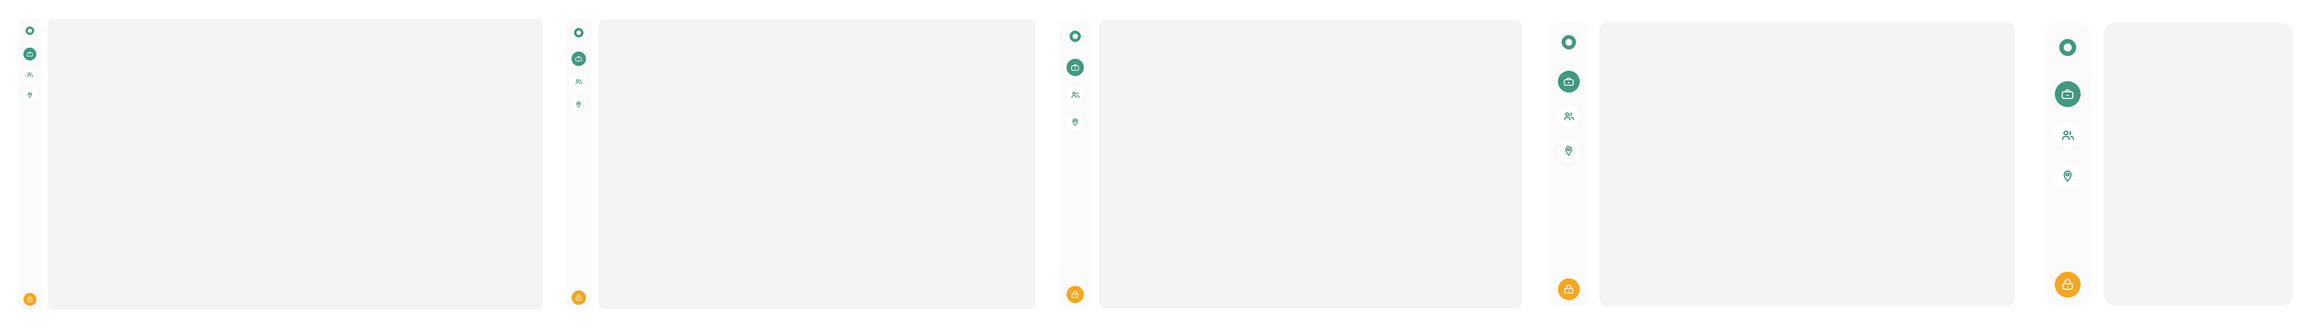
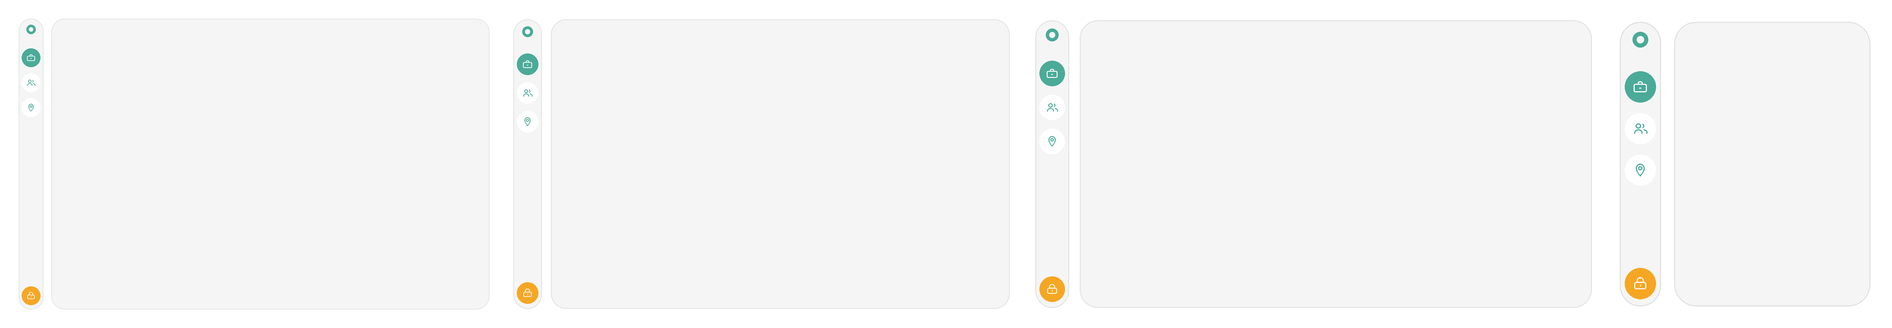
Rebuild the home screen on the design's real 1440x900 artboard
The mockup I measured was a 1546x967 export of a 1440x900 artboard - a 1.074
scale, not the 1.208 I had assumed and not 1:1 either. With my measurements
also running a few percent high and plus or minus ten percent noisy, that is
how a 56px disc got read as 46. Nothing here is measured any more; every
number is read off a property panel.

  artboard    1440x900, rail 74x873 -> a 13.5px margin, taken as 14
  rail        74 wide, radius 40, 9px either side of a 56 disc
  shadow      0 / 6 / 14 / 0, 041516 at 7.06% - a radial gradient sampling
              the Gaussian tail, since the disc hides all but its outside
  teal        4BAA98 is now the single brand colour, with hover, pressed and
              disabled derived from it so the other screens follow
  window      opens at the design's 1440x900 where the display has room and
              shrinks to 92% of the work area where it does not, so it fits
              a 1366x768 laptop without becoming a fake maximise

Verified against the design: ring centre 46, discs at 131 / 206 / 281 exactly
75 apart, lock at 845, rail spanning 14 to 88.

diff --git a/DoNet/Views/HomePage.xaml b/DoNet/Views/HomePage.xaml
@@ -16,7 +16,7 @@
                              From="0" To="1" Duration="0:0:0.34" />
             <DoubleAnimation Storyboard.TargetName="RailSlide"
                              Storyboard.TargetProperty="X"
-                             From="-30" To="0" Duration="0:0:0.42">
+                             From="-26" To="0" Duration="0:0:0.42">
                 <DoubleAnimation.EasingFunction>
                     <CubicEase EasingMode="EaseOut" />
                 </DoubleAnimation.EasingFunction>
@@ -42,13 +42,13 @@
     </Page.Resources>
 
     <!--
-        Sizes are the design's absolute pixels. An earlier pass divided them by 1.208,
-        on the assumption the mockup was a scaled render of a 1280-wide window; it was
-        not, and the whole rail came out a fifth too small.
+        Sizes come from the design's property panels, not from measuring its export.
+        The artboard is 1440x900 and the rail is 74x873, which puts a 13.5px margin
+        around the panels; 14 is near enough and keeps every edge on a whole pixel.
     -->
-    <Grid Padding="16">
+    <Grid Padding="14">
         <Grid.ColumnDefinitions>
-            <ColumnDefinition Width="82" />
+            <ColumnDefinition Width="74" />
             <ColumnDefinition Width="24" />
             <ColumnDefinition Width="*" />
         </Grid.ColumnDefinitions>
@@ -77,18 +77,18 @@
                     which makes the drawn diameter Width + StrokeThickness = 26.
                 -->
                 <Grid Grid.Row="0"
-                      Width="30"
-                      Height="30"
-                      Margin="0,29,0,0"
+                      Width="28"
+                      Height="28"
+                      Margin="0,18,0,0"
                       HorizontalAlignment="Center">
-                    <Ellipse Width="22"
-                             Height="22"
-                             StrokeThickness="8"
+                    <Ellipse Width="20.5"
+                             Height="20.5"
+                             StrokeThickness="7.5"
                              Stroke="{StaticResource BrandPrimaryBrush}" />
                 </Grid>
 
                 <StackPanel Grid.Row="1"
-                            Margin="0,46,0,0"
+                            Margin="0,43,0,0"
                             Spacing="19"
                             HorizontalAlignment="Center"
                             VerticalAlignment="Top">
@@ -121,7 +121,7 @@
                 -->
                 <controls:NavRailButton
                     Grid.Row="2"
-                    Margin="0,0,0,14"
+                    Margin="0,0,0,13"
                     HorizontalAlignment="Center"
                     Label="Lock DoNet"
                     AccentBrush="{StaticResource LockActionBrush}"

diff --git a/DoNet/Styles/Colors.xaml b/DoNet/Styles/Colors.xaml
@@ -1,6 +1,8 @@
 <?xml version="1.0" encoding="utf-8"?>
 <!--
-    DoNet palette, sampled from the Figma screens.
+    DoNet palette. The brand teal, the home surfaces and their strokes are the
+    design's own values; the hover, pressed and disabled steps are derived from the
+    teal so they move with it.
 
     Colors are declared separately from Brushes because the logo gradient needs raw
     Color values for its GradientStops.
@@ -12,10 +14,10 @@
     <!-- Brand ................................................................ -->
     <Color x:Key="BrandTealDeepColor">#49A48C</Color>
     <Color x:Key="BrandTealSoftColor">#83CDB4</Color>
-    <Color x:Key="BrandPrimaryColor">#429882</Color>
-    <Color x:Key="BrandPrimaryHoverColor">#3B8A76</Color>
-    <Color x:Key="BrandPrimaryPressedColor">#347B69</Color>
-    <Color x:Key="BrandPrimaryDisabledColor">#B3D8CC</Color>
+    <Color x:Key="BrandPrimaryColor">#4BAA98</Color>
+    <Color x:Key="BrandPrimaryHoverColor">#449989</Color>
+    <Color x:Key="BrandPrimaryPressedColor">#3C887A</Color>
+    <Color x:Key="BrandPrimaryDisabledColor">#BBDFD8</Color>
 
     <SolidColorBrush x:Key="BrandPrimaryBrush" Color="{StaticResource BrandPrimaryColor}" />
     <SolidColorBrush x:Key="BrandPrimaryHoverBrush" Color="{StaticResource BrandPrimaryHoverColor}" />
@@ -45,10 +47,13 @@
         raw value - and because each rail button owns its own SolidColorBrush instance.
         Animating a shared brush would repaint every button at once.
     -->
+    <!-- Literal rather than a reference to BrandPrimaryColor: a Color element's content
+         is parsed as a colour, so a StaticResource here would not resolve. Keep in step
+         with the brand teal by hand. -->
     <Color x:Key="NavIconColor">#4BAA98</Color>
     <Color x:Key="NavIconSelectedColor">#FFFFFF</Color>
     <SolidColorBrush x:Key="NavRestBrush" Color="#FFFFFF" />
-    <SolidColorBrush x:Key="NavSelectedBrush" Color="#4BAA98" />
+    <SolidColorBrush x:Key="NavSelectedBrush" Color="{StaticResource BrandPrimaryColor}" />
 
     <!-- FFFFFF at 40%, the design's 1px inside stroke on each disc. Invisible on the
          white resting disc, a soft inner lip on the filled one. -->

diff --git a/DoNet/Controls/NavRailButton.xaml b/DoNet/Controls/NavRailButton.xaml
@@ -85,21 +85,24 @@
             A soft cast shadow, faked with a radial gradient rather than ThemeShadow.
 
             ThemeShadow was tried here and rendered nothing at all. For a circle the
-            gradient is exact anyway: the disc covers everything inside 56/74 of the
-            radius, so only the falloff past it is ever visible.
+            gradient is exact anyway: the disc hides everything inside 28/42 of the
+            radius, so only the Gaussian tail past the disc edge is ever visible. The
+            stops below sample that tail; Y is the design's 6px offset.
         -->
         <Ellipse x:Name="DropShadow"
-                 Width="74"
-                 Height="74"
-                 Margin="0,3,0,0"
+                 Width="84"
+                 Height="84"
+                 Margin="0,6,0,0"
                  HorizontalAlignment="Center"
                  VerticalAlignment="Center"
                  IsHitTestVisible="False">
             <Ellipse.Fill>
                 <RadialGradientBrush>
-                    <GradientStop Offset="0" Color="#20000000" />
-                    <GradientStop Offset="0.74" Color="#1A000000" />
-                    <GradientStop Offset="1" Color="#00000000" />
+                    <GradientStop Offset="0.0" Color="#12041516" />
+                    <GradientStop Offset="0.6667" Color="#12041516" />
+                    <GradientStop Offset="0.7833" Color="#0D041516" />
+                    <GradientStop Offset="0.9" Color="#04041516" />
+                    <GradientStop Offset="1.0" Color="#00041516" />
                 </RadialGradientBrush>
             </Ellipse.Fill>
         </Ellipse>

diff --git a/tools/preview_screens.py b/tools/preview_screens.py
@@ -40,6 +40,7 @@ DANGER_BODY = (192, 57, 43)
 RAIL_BG = (245, 245, 245)
 CONTENT_BG = (245, 245, 245)
 NAV_ICON = (75, 170, 152)
+CARD_STROKE = (224, 226, 226)   # 041516 @ 8.63% over F5F5F5
 LOCK_ACCENT = (245, 166, 35)
 
 # ---- metrics ---------------------------------------------------------------
@@ -268,22 +269,24 @@ def home(LW=1280, LH=810):
     img = Image.new("RGB", (LW * SS, LH * SS), "white")
     dr = ImageDraw.Draw(img)
 
-    PADDING, RAIL_W, GAP, R = 16, 82, 24, 40
+    PADDING, RAIL_W, GAP, R = 14, 74, 24, 40
 
-    def rr(box, radius, fill):
-        dr.rounded_rectangle([v * SS for v in box], radius=radius * SS, fill=fill)
+    def rr(box, radius, fill, outline=None, w=0):
+        dr.rounded_rectangle([v * SS for v in box], radius=radius * SS, fill=fill,
+                             outline=outline, width=int(w * SS))
 
-    rr((PADDING, PADDING, PADDING + RAIL_W, LH - PADDING), R, RAIL_BG)
-    rr((PADDING + RAIL_W + GAP, PADDING, LW - PADDING, LH - PADDING), R, CONTENT_BG)
+    rr((PADDING, PADDING, PADDING + RAIL_W, LH - PADDING), R, RAIL_BG, CARD_STROKE, 2)
+    rr((PADDING + RAIL_W + GAP, PADDING, LW - PADDING, LH - PADDING), R, CONTENT_BG,
+       CARD_STROKE, 2)
 
     cx = PADDING + RAIL_W / 2                      # 46
 
     # Ring mark. XAML straddles a shape's stroke across its edge, so Width 19 with
     # StrokeThickness 7 draws an annulus from d=26 down to d=12. PIL insets the stroke
     # instead, so it has to be given the *outer* circle to land in the same place.
-    ring_cy = PADDING + 29 + 15
-    dr.ellipse([(cx - 15) * SS, (ring_cy - 15) * SS, (cx + 15) * SS, (ring_cy + 15) * SS],
-               outline=BTN, width=int(8 * SS))
+    ring_cy = PADDING + 18 + 14
+    dr.ellipse([(cx - 14) * SS, (ring_cy - 14) * SS, (cx + 14) * SS, (ring_cy + 14) * SS],
+               outline=BTN, width=int(7.5 * SS))
 
     def disc(cy, icon_key, selected, accent):
         dr.ellipse([(cx - 28) * SS, (cy - 28) * SS, (cx + 28) * SS, (cy + 28) * SS],
@@ -295,11 +298,11 @@ def home(LW=1280, LH=810):
             dr.line([((ox + x * k) * SS, (oy + y * k) * SS) for x, y in sp],
                     fill=colour, width=int(1.6 * k * SS), joint="curve")
 
-    first_top = PADDING + 29 + 30 + 46            # 121
+    first_top = PADDING + 18 + 28 + 43            # 103
     for i, key in enumerate(("Services (briefcase)", "Persons", "Sites (pin)")):
         disc(first_top + 28 + i * 75, key, i == 0, BTN)
 
-    disc(LH - PADDING - 14 - 28, "Lock", True, LOCK_ACCENT)
+    disc(LH - PADDING - 13 - 28, "Lock", True, LOCK_ACCENT)
 
     return img.resize((LW, LH), Image.LANCZOS)
 

diff --git a/DoNet/MainWindow.xaml.cs b/DoNet/MainWindow.xaml.cs
@@ -15,8 +15,15 @@ namespace DoNet;
 /// </summary>
 public sealed partial class MainWindow : Window
 {
-    private const int DesignWidth = 1280;
-    private const int DesignHeight = 810;
+    // The design's own artboard. The window opens at this size where the display has
+    // room, so the app matches the design 1:1 without anyone having to scale anything.
+    private const int DesignWidth = 1440;
+    private const int DesignHeight = 900;
+
+    // ...but never edge to edge. On a 1366x768 laptop the full design height does not
+    // fit at all, and a window exactly the size of the work area reads as a botched
+    // maximise rather than a deliberate default.
+    private const double MaxWorkAreaFraction = 0.92;
 
     // The smallest window the layout still works in, derived rather than picked:
     //
@@ -227,9 +234,14 @@ public sealed partial class MainWindow : Window
         var display = DisplayArea.GetFromWindowId(AppWindow.Id, DisplayAreaFallback.Nearest);
         var work = display.WorkArea;
 
-        // clamp so the window still fits on smaller screens
-        width = Math.Min(width, work.Width);
-        height = Math.Min(height, work.Height);
+        // Shrink to fit smaller displays, keeping a margin so the window still reads as
+        // a window. The minimum is applied last: a display too small for even that is
+        // better served by a clipped window than by one placed off-screen.
+        width = Math.Min(width, (int)(work.Width * MaxWorkAreaFraction));
+        height = Math.Min(height, (int)(work.Height * MaxWorkAreaFraction));
+
+        width = Math.Max(width, Math.Min((int)Math.Round(MinimumWidth * scale), work.Width));
+        height = Math.Max(height, Math.Min((int)Math.Round(MinimumHeight * scale), work.Height));
 
         var x = work.X + ((work.Width - width) / 2);
         var y = work.Y + ((work.Height - height) / 2);
